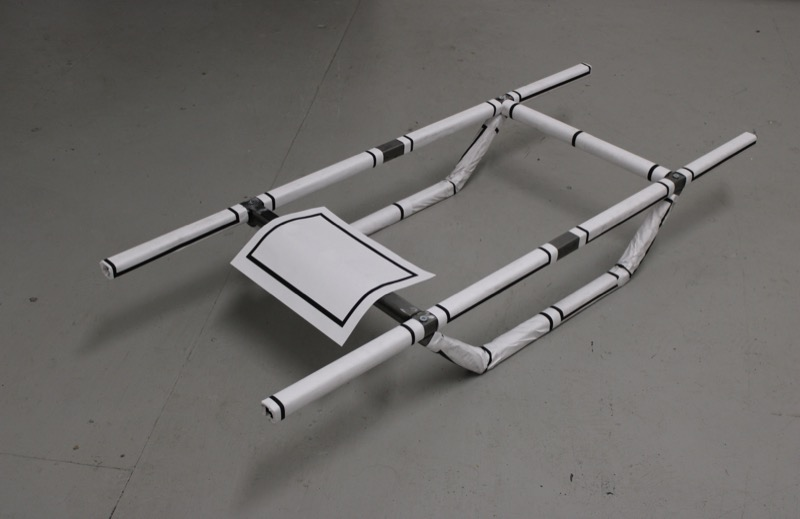
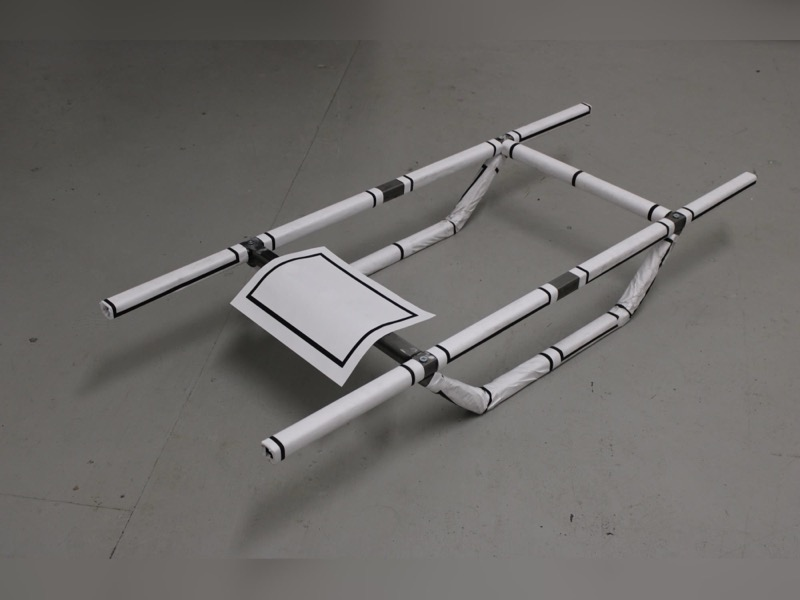
Grid: Scenes thumbnail -> image 11; Confinement thumb uncropped via blurred 4:3 fill

diff --git a/index.html b/index.html
@@ -94,7 +94,7 @@
       <li class="grid-item">
         <a href="works/scenes-from-american-culture.html">
           <span class="thumb-frame">
-            <img width="800" height="533" src="assets/works/scenes-from-american-culture/scenes-from-american-culture-01-thumb.jpg" alt="Scenes From American Culture, 2023 — performance still, Pop Gun Art Gallery">
+            <img width="800" height="533" src="assets/works/scenes-from-american-culture/scenes-from-american-culture-11-thumb.jpg" alt="Scenes From American Culture, 2023 — performance still, Pop Gun Art Gallery">
           </span>
           <span class="grid-caption">
             <span class="work-title">Scenes From American Culture</span>
